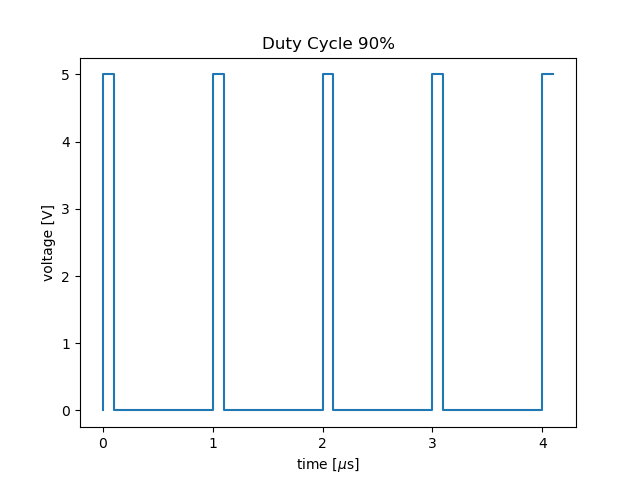
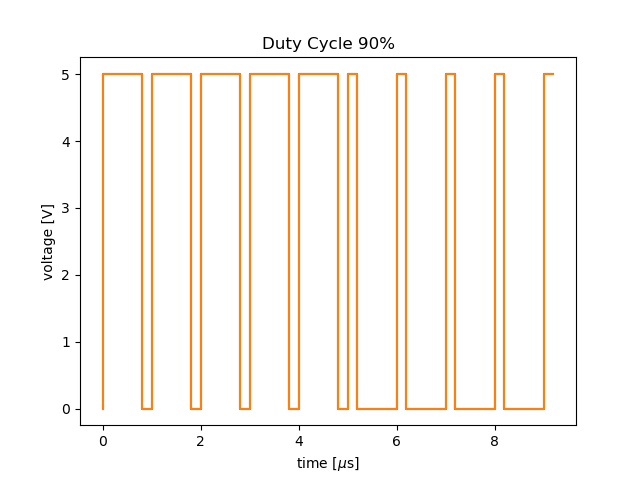
auto

diff --git a/chapters/4 - methods and results.tex b/chapters/4 - methods and results.tex
@@ -168,7 +168,7 @@ Arduino is an open-source microcontroller board used for building low cost and s
 The Arduino Mega 2560, is based on the ATmega2560 8-bit controller, and equipped with a 16 MHz crystal oscillator (clock) and 15 PWM outputs pins. The Arduino does can not produce an analog output, but it simulates an analog output using Pulse Width Modulation (PWM). The Arduino's output is a digital $V_d = 5[V]$ output.
 \subsubsection{Pulse Width Modulation}
 \par\noindent
-The controller switches the output signal fast between the digital output and off, generating a square wave. Repeating the pattern fast enough (having a square wave with short period $T$) results in an analog signal almost as if the signal is a steady analog voltage. The time signal duration is called the pulse width ($PW$). With the clock, the controller is able to modulate $PW$, changing the ratio of the time signal is on compared to off, which is the duty cycle $D$:
+The controller switches the output signal fast between the digital output and off, generating a square wave. The controller is repeating the pattern generating a square wave with a period of $T \ propto 2\cdot 10^{-6}$) results in an analog signal almost as if the signal is a steady analog voltage. The time signal duration is called the pulse width ($PW$). With the clock, the controller is able to modulate $PW$, changing the ratio of the time signal is on compared to off, which is the duty cycle $D$:
 \begin{equation}
 D = \frac{PW}{T}\cdot 100  \label{eqn:duty cycle}
 \end{equation}

diff --git a/python/dutycycle.py b/python/dutycycle.py
@@ -3,19 +3,27 @@ import time
 import sys
 from io import StringIO
 import matplotlib.pyplot as plt
+N=20
+x=np.arange(N)
+# y = np.zeros(N)
 
-x=np.arange(10)
 V = (x%2)*5
 
-n=100
-duty =0.1
-y = np.zeros(10)
-y[x%2 == 0]=x[x%2 == 0]/2
-y[x%2 != 0] = x[x%2 == 0]/2 +duty
+duty =0.8
+y=[]
+for i in x:
+    if i%2 == 0:
+        y.append(i/2)
+    else:
+        y.append(y[-1]+duty)
+    if i%int(N/2) == 0 and i !=0:
+        duty =0.2
+# y[x%2 == 0]=x[x%2 == 0]/2
+# y[x%2 != 0] = x[x%2 == 0]/2 +duty
 # y = y*8
 plt.step(y,V)
 plt.xlabel('time [$\mu$s]')
 plt.ylabel('voltage [V]')
-plt.title ('Duty Cycle 90%')
+# plt.title ('Duty Cycle 90%')
 plt.savefig('duty90.png')
 
